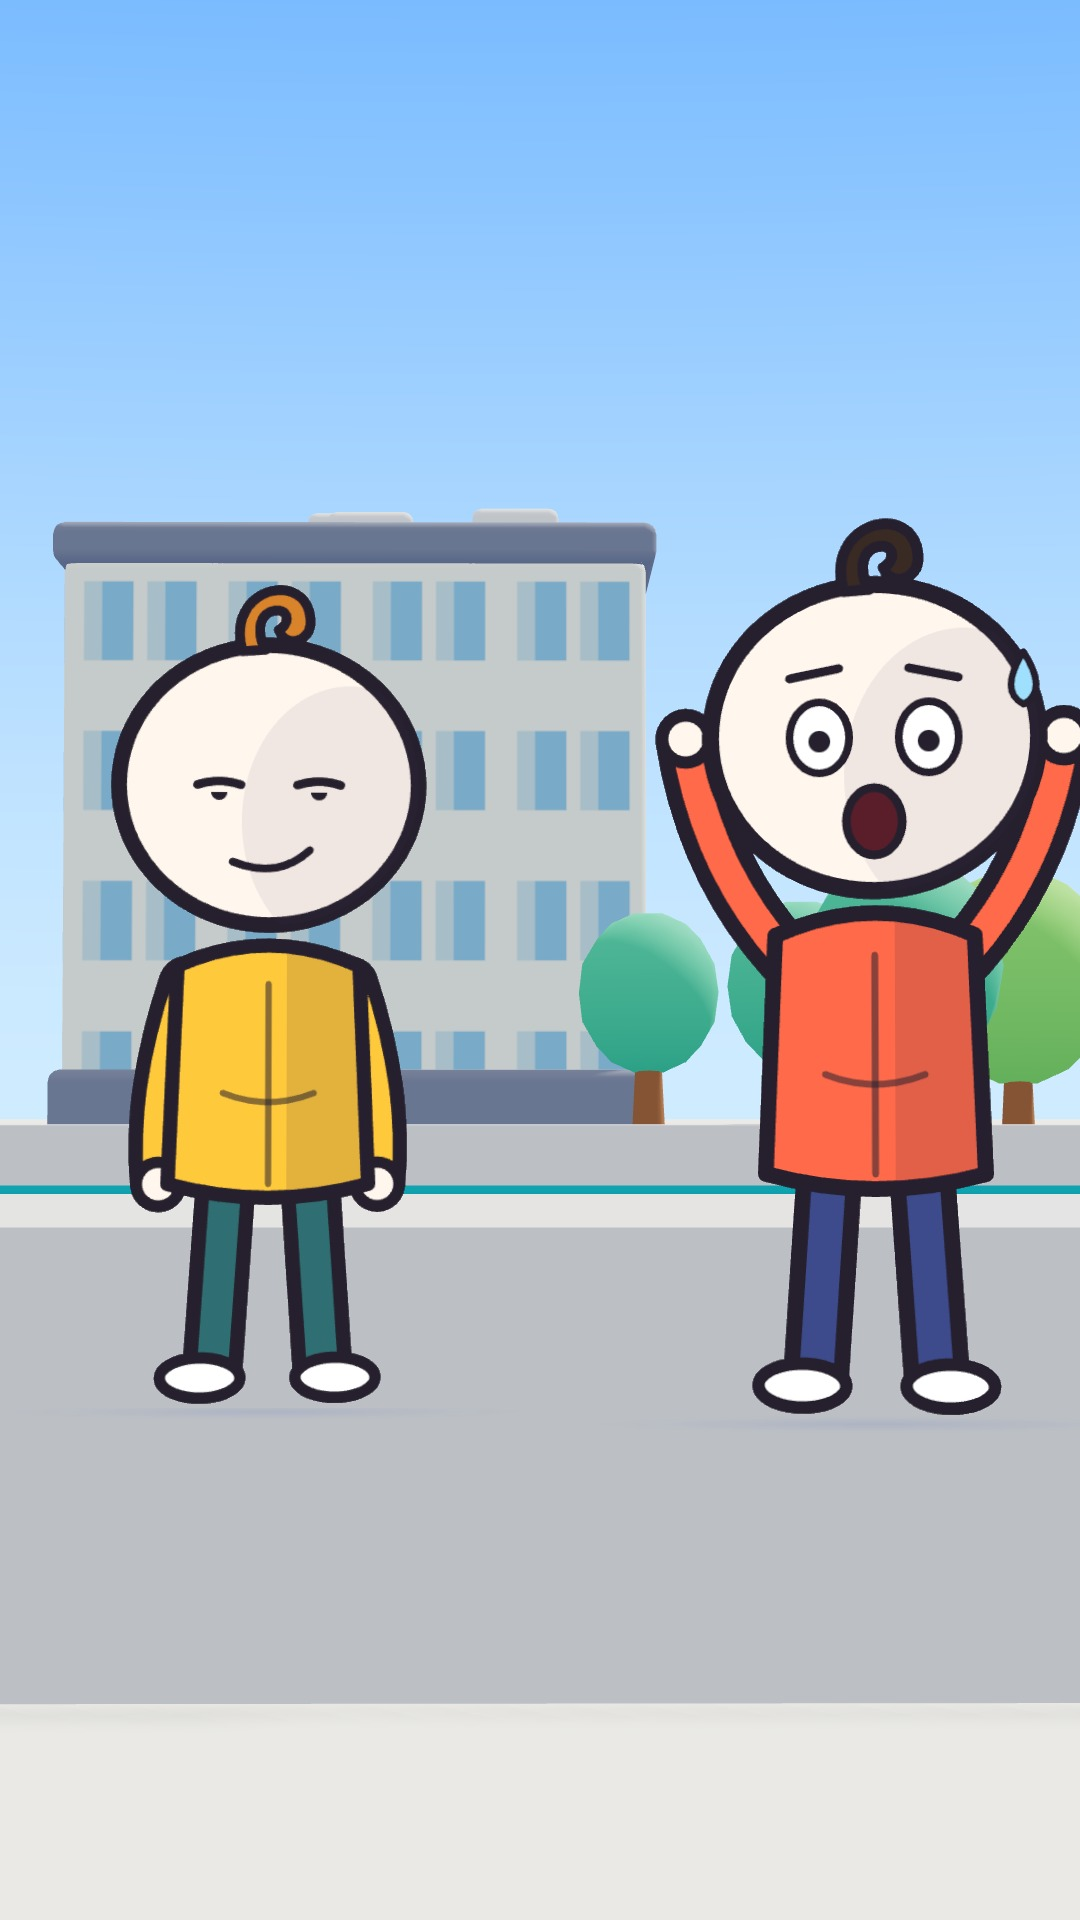
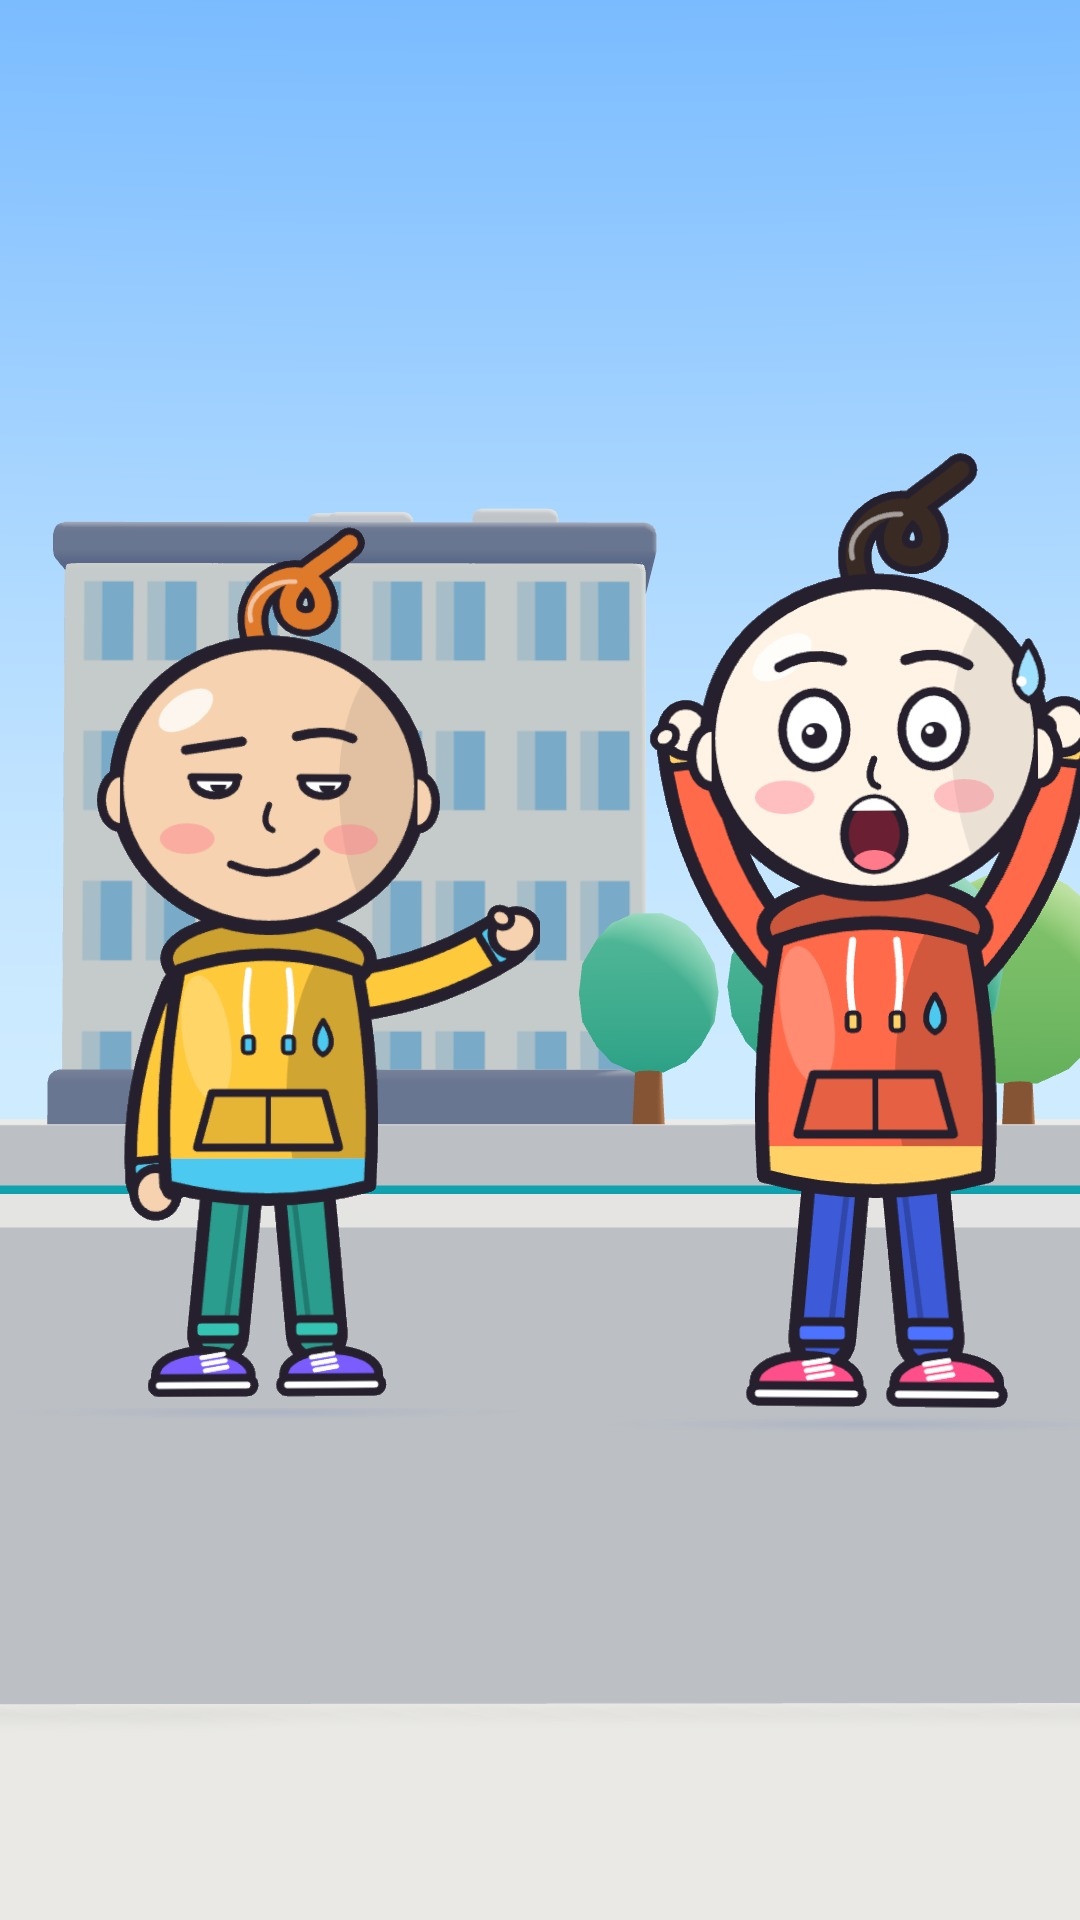
Bright style: more colourful, detailed cast with a longer signature curl
Claude-Session: https://claude.ai/code/session_01CtHgfPNB43nVshGwQCD94n

Changed region(s): [[0.6111, 0.2188, 1.0, 0.75], [0.0917, 0.25, 0.5194, 0.75]]

diff --git a/videos/style-bright/web/main.js b/videos/style-bright/web/main.js
@@ -114,45 +114,86 @@ for (let i = 0; i < 6; i++) car(40 + (i % 2 ? 2.2 : -2.2), 10 + i * 8, i % 2 ? 0
 
 // ---------- the cast: flat 2D cards, thick outlines, round heads, bright & unlit ----------
 const INK = '#26202e';
-function person({ shirt = '#ff6b4a', pants = '#3d4b8c', skin = '#fff6ee', hair = '#3a2a24', mood = 'shock', arms = 'up', prop = null } = {}) {
+function person({ shirt = '#ff6b4a', shirt2 = '#ffd166', pants = '#3d5bd9', shoe = '#ff4f8b', skin = '#fff3e6', hair = '#3a2a24', mood = 'shock', arms = 'up', prop = null } = {}) {
   const c = document.createElement('canvas'); c.width = 600; c.height = 1000; const g = c.getContext('2d');
-  g.lineJoin = 'round'; g.lineCap = 'round'; g.strokeStyle = INK;
-  const ol = 16;
-  // legs
-  g.lineWidth = 34 + ol * 2; g.beginPath(); g.moveTo(255, 720); g.lineTo(240, 940); g.moveTo(345, 720); g.lineTo(360, 940); g.stroke();
-  g.strokeStyle = pants; g.lineWidth = 34; g.stroke();
-  // shoes
-  for (const [x, d] of [[240, -1], [360, 1]]) { g.fillStyle = '#ffffff'; g.beginPath(); g.ellipse(x + d * 14, 952, 44, 22, 0, 0, 7); g.fill(); g.lineWidth = ol * 0.8; g.strokeStyle = INK; g.stroke(); }
-  // arms
-  const armPts = arms === 'up' ? [[[210, 520], [130, 430], [110, 300]], [[390, 520], [470, 430], [490, 300]]] : [[[210, 520], [170, 640], [180, 740]], [[390, 520], [430, 640], [420, 740]]];
-  for (const pts of armPts) {
-    g.beginPath(); g.moveTo(...pts[0]); g.quadraticCurveTo(...pts[1], ...pts[2]); g.strokeStyle = INK; g.lineWidth = 30 + ol * 2; g.stroke(); g.strokeStyle = shirt; g.lineWidth = 30; g.stroke();
-    g.fillStyle = skin; g.beginPath(); g.arc(pts[2][0], pts[2][1], 24, 0, 7); g.fill(); g.lineWidth = ol * 0.8; g.strokeStyle = INK; g.stroke();
+  g.lineJoin = 'round'; g.lineCap = 'round';
+  const ol = 14;
+  const shade = (hex, k) => { const n = parseInt(hex.slice(1), 16); const f = (v) => Math.max(0, Math.min(255, Math.round(v * k))); return `rgb(${f(n >> 16)},${f((n >> 8) & 255)},${f(n & 255)})`; };
+  const tube = (pts, w, col) => { g.beginPath(); g.moveTo(...pts[0]); if (pts.length === 3) g.quadraticCurveTo(...pts[1], ...pts[2]); else g.lineTo(...pts[1]);
+    g.strokeStyle = INK; g.lineWidth = w + ol * 2; g.stroke(); g.strokeStyle = col; g.lineWidth = w; g.stroke(); };
+  const fillStroke = (col, w = ol) => { g.fillStyle = col; g.fill(); g.lineWidth = w; g.strokeStyle = INK; g.stroke(); };
+  // ---- legs: trousers with rolled cuffs ----
+  for (const [x0, x1] of [[262, 246], [338, 354]]) {
+    tube([[x0, 730], [x1, 905]], 40, pants);
+    g.strokeStyle = shade(pants, 0.78); g.lineWidth = 6; g.beginPath(); g.moveTo(x0 + (x0 < 300 ? 9 : -9), 760); g.lineTo(x1 + (x1 < 300 ? 9 : -9), 890); g.stroke();
+    g.beginPath(); g.roundRect(x1 - 27, 888, 54, 22, 8); fillStroke(shade(pants, 1.25), 9);
   }
-  // torso: rounded hoodie
-  g.fillStyle = shirt; g.beginPath(); g.moveTo(200, 500); g.quadraticCurveTo(300, 455, 400, 500); g.lineTo(410, 740); g.quadraticCurveTo(300, 770, 190, 740); g.closePath(); g.fill(); g.lineWidth = ol; g.strokeStyle = INK; g.stroke();
-  g.save(); g.clip(); g.fillStyle = 'rgba(40,20,60,.13)'; g.fillRect(320, 450, 120, 330); g.restore();
-  g.strokeStyle = 'rgba(38,32,46,.55)'; g.lineWidth = 7; g.beginPath(); g.moveTo(300, 520); g.lineTo(300, 740); g.stroke();
-  g.beginPath(); g.moveTo(250, 640); g.quadraticCurveTo(300, 660, 350, 640); g.stroke(); // pocket
-  // head: big round, slightly wider than tall
-  g.fillStyle = skin; g.beginPath(); g.ellipse(300, 300, 165, 155, 0, 0, 7); g.fill(); g.lineWidth = ol * 1.1; g.strokeStyle = INK; g.stroke();
-  g.save(); g.beginPath(); g.ellipse(300, 300, 165, 155, 0, 0, 7); g.clip(); g.fillStyle = 'rgba(60,40,90,.08)'; g.beginPath(); g.ellipse(390, 340, 120, 150, 0, 0, 7); g.fill(); g.restore();
-  // signature: one big hair curl on top (our mascot mark)
-  g.fillStyle = hair; g.beginPath(); g.moveTo(270, 152); g.bezierCurveTo(250, 80, 340, 60, 345, 115); g.bezierCurveTo(348, 140, 318, 150, 310, 128); g.bezierCurveTo(325, 120, 320, 100, 300, 108); g.bezierCurveTo(285, 115, 288, 140, 296, 150); g.closePath(); g.fill(); g.lineWidth = ol * 0.7; g.strokeStyle = INK; g.stroke();
-  // face
-  g.fillStyle = INK; g.strokeStyle = INK;
+  // ---- sneakers: two-tone with white sole + laces ----
+  for (const [x, d] of [[246, -1], [354, 1]]) {
+    g.beginPath(); g.ellipse(x + d * 16, 948, 52, 26, 0, Math.PI, 0); g.lineTo(x + d * 16 + 52, 958); g.lineTo(x + d * 16 - 52, 958); g.closePath(); fillStroke(shoe, 10);
+    g.beginPath(); g.roundRect(x + d * 16 - 56, 952, 112, 16, 8); fillStroke('#ffffff', 9);
+    g.strokeStyle = '#ffffff'; g.lineWidth = 5; for (let i = 0; i < 3; i++) { g.beginPath(); g.moveTo(x + d * 6 - 12 + i * 2, 930 + i * 7); g.lineTo(x + d * 6 + 12 + i * 2, 926 + i * 7); g.stroke(); }
+  }
+  // ---- arms (sleeves + cuffs + mitten hands with a thumb) ----
+  const armPts = arms === 'up' ? [[[212, 530], [128, 440], [112, 305]], [[388, 530], [472, 440], [488, 305]]]
+    : arms === 'point' ? [[[212, 530], [168, 640], [176, 735]], [[388, 530], [480, 520], [560, 470]]]
+    : [[[212, 530], [168, 640], [176, 735]], [[388, 530], [432, 640], [424, 735]]];
+  for (const pts of armPts) {
+    tube(pts, 36, shirt);
+    const [hx, hy] = pts[2], [px, py] = pts[1]; const ang = Math.atan2(hy - py, hx - px);
+    g.save(); g.translate(hx, hy); g.rotate(ang);
+    g.beginPath(); g.roundRect(-22, -24, 20, 48, 8); fillStroke(shirt2, 9);
+    g.beginPath(); g.ellipse(14, 0, 26, 24, 0, 0, 7); fillStroke(skin, 10);
+    g.beginPath(); g.ellipse(10, -22, 10, 12, -0.5, 0, 7); fillStroke(skin, 8);
+    g.restore();
+  }
+  // ---- hoodie torso: hood behind neck, two-tone shading, pocket, drawstrings ----
+  g.beginPath(); g.ellipse(300, 492, 112, 46, 0, 0, 7); fillStroke(shade(shirt, 0.8));
+  g.beginPath(); g.moveTo(202, 505); g.quadraticCurveTo(300, 470, 398, 505); g.quadraticCurveTo(420, 620, 412, 742); g.quadraticCurveTo(300, 772, 188, 742); g.quadraticCurveTo(180, 620, 202, 505); g.closePath();
+  g.fillStyle = shirt; g.fill();
+  g.save(); g.clip(); g.fillStyle = shade(shirt, 0.82); g.beginPath(); g.ellipse(410, 640, 90, 190, 0, 0, 7); g.fill();
+  g.fillStyle = 'rgba(255,255,255,.22)'; g.beginPath(); g.ellipse(232, 580, 26, 70, -0.15, 0, 7); g.fill();
+  g.fillStyle = shirt2; g.fillRect(170, 712, 260, 40); g.restore();
+  g.beginPath(); g.moveTo(202, 505); g.quadraticCurveTo(300, 470, 398, 505); g.quadraticCurveTo(420, 620, 412, 742); g.quadraticCurveTo(300, 772, 188, 742); g.quadraticCurveTo(180, 620, 202, 505); g.closePath(); g.lineWidth = ol; g.strokeStyle = INK; g.stroke();
+  g.beginPath(); g.moveTo(238, 640); g.lineTo(362, 640); g.lineTo(378, 700); g.lineTo(222, 700); g.closePath(); fillStroke(shade(shirt, 0.9), 9);
+  g.strokeStyle = INK; g.lineWidth = 6; g.beginPath(); g.moveTo(300, 640); g.lineTo(300, 700); g.stroke();
+  for (const x of [278, 322]) { g.strokeStyle = '#ffffff'; g.lineWidth = 7; g.beginPath(); g.moveTo(x, 505); g.quadraticCurveTo(x + (x < 300 ? -6 : 6), 545, x, 580); g.stroke(); g.beginPath(); g.roundRect(x - 6, 578, 12, 18, 4); fillStroke(shirt2, 5); }
+  // little chest logo: a water drop (channel motif)
+  g.beginPath(); g.moveTo(360, 560); g.quadraticCurveTo(342, 588, 360, 598); g.quadraticCurveTo(378, 588, 360, 560); fillStroke('#4cc9f0', 6);
+  // ---- head ----
+  const HX = 300, HY = 300, RX = 168, RY = 158;
+  // signature: the tall spring curl (long, twice coiled, with a shine)
+  g.strokeStyle = INK; g.lineWidth = 34; g.beginPath(); g.moveTo(292, 152);
+  g.bezierCurveTo(252, 84, 336, 40, 356, 86); g.bezierCurveTo(372, 126, 316, 128, 320, 96); g.bezierCurveTo(324, 70, 364, 52, 388, 30); g.stroke();
+  g.strokeStyle = hair; g.lineWidth = 18; g.stroke();
+  g.strokeStyle = 'rgba(255,255,255,.55)'; g.lineWidth = 5; g.beginPath(); g.moveTo(279, 118); g.bezierCurveTo(272, 92, 300, 72, 328, 74); g.stroke();
+  g.beginPath(); g.ellipse(HX, HY, RX, RY, 0, 0, 7); g.fillStyle = skin; g.fill();
+  g.save(); g.clip(); g.fillStyle = shade(skin, 0.92); g.beginPath(); g.ellipse(HX + 175, HY + 40, 95, 190, -0.15, 0, 7); g.fill();
+  g.fillStyle = 'rgba(255,255,255,.8)'; g.beginPath(); g.ellipse(HX - 92, HY - 82, 34, 18, -0.6, 0, 7); g.fill(); g.restore();
+  g.beginPath(); g.ellipse(HX, HY, RX, RY, 0, 0, 7); g.lineWidth = ol * 1.15; g.strokeStyle = INK; g.stroke();
+  // ears
+  for (const d of [-1, 1]) { g.beginPath(); g.ellipse(HX + d * (RX - 4), HY + 18, 20, 30, 0, d < 0 ? Math.PI * 0.5 : -Math.PI * 0.5, d < 0 ? Math.PI * 1.5 : Math.PI * 0.5); fillStroke(skin, 10); }
+  // cheeks
+  g.fillStyle = 'rgba(255,120,140,.42)'; for (const x of [210, 390]) { g.beginPath(); g.ellipse(x, 360, 30, 17, 0, 0, 7); g.fill(); }
+  // eyes with a highlight, brows, small nose
+  g.strokeStyle = INK; g.fillStyle = INK;
   const eye = (x, y) => {
-    if (mood === 'shock') { g.fillStyle = '#fff'; g.beginPath(); g.ellipse(x, y, 30, 36, 0, 0, 7); g.fill(); g.lineWidth = 8; g.stroke(); g.fillStyle = INK; g.beginPath(); g.arc(x, y + 4, 11, 0, 7); g.fill(); }
-    else if (mood === 'smug') { g.lineWidth = 10; g.beginPath(); g.moveTo(x - 24, y); g.quadraticCurveTo(x, y - 8, x + 24, y); g.stroke(); g.beginPath(); g.arc(x, y + 8, 9, 0, Math.PI); g.fill(); }
-    else { g.beginPath(); g.ellipse(x, y, 12, 17, 0, 0, 7); g.fill(); }
+    if (mood === 'shock') { g.fillStyle = '#fff'; g.beginPath(); g.ellipse(x, y, 32, 38, 0, 0, 7); g.fill(); g.lineWidth = 9; g.stroke(); g.fillStyle = INK; g.beginPath(); g.arc(x, y + 6, 13, 0, 7); g.fill(); g.fillStyle = '#fff'; g.beginPath(); g.arc(x - 4, y + 1, 4, 0, 7); g.fill(); }
+    else if (mood === 'smug') { g.fillStyle = '#fff'; g.beginPath(); g.ellipse(x, y + 4, 24, 16, 0, 0, Math.PI); g.fill(); g.lineWidth = 9; g.beginPath(); g.moveTo(x - 26, y); g.lineTo(x + 26, y); g.stroke(); g.beginPath(); g.ellipse(x, y + 4, 24, 16, 0, 0, Math.PI); g.stroke(); g.fillStyle = INK; g.beginPath(); g.arc(x + 4, y + 8, 9, 0, Math.PI); g.fill(); }
+    else { g.beginPath(); g.ellipse(x, y, 14, 19, 0, 0, 7); g.fill(); g.fillStyle = '#fff'; g.beginPath(); g.arc(x - 4, y - 6, 5, 0, 7); g.fill(); g.fillStyle = INK; }
   };
-  eye(245, 300); eye(355, 300);
+  eye(240, 292); eye(360, 292);
+  g.lineWidth = 11;
+  if (mood === 'shock') { g.beginPath(); g.moveTo(205, 228); g.quadraticCurveTo(235, 210, 268, 222); g.moveTo(332, 222); g.quadraticCurveTo(365, 210, 395, 228); g.stroke(); }
+  else if (mood === 'smug') { g.beginPath(); g.moveTo(208, 262); g.lineTo(270, 252); g.moveTo(330, 246); g.quadraticCurveTo(365, 236, 392, 248); g.stroke(); }
+  else { g.beginPath(); g.moveTo(212, 248); g.quadraticCurveTo(240, 236, 268, 246); g.moveTo(332, 246); g.quadraticCurveTo(360, 236, 388, 248); g.stroke(); }
+  g.lineWidth = 7; g.beginPath(); g.moveTo(300, 322); g.quadraticCurveTo(290, 345, 304, 350); g.stroke();
   g.lineWidth = 9;
-  if (mood === 'shock') { g.beginPath(); g.moveTo(215, 240); g.lineTo(265, 230); g.moveTo(335, 230); g.lineTo(385, 240); g.stroke();
-    g.fillStyle = '#5a1e2a'; g.beginPath(); g.ellipse(300, 385, 28, 34, 0, 0, 7); g.fill(); g.stroke(); }
-  else if (mood === 'smug') { g.beginPath(); g.moveTo(260, 385); g.quadraticCurveTo(310, 405, 345, 372); g.stroke(); }
-  else { g.beginPath(); g.moveTo(262, 375); g.quadraticCurveTo(300, 410, 338, 375); g.stroke(); }
-  if (prop === 'sweat') { g.fillStyle = '#9fe0ff'; g.lineWidth = 7; g.beginPath(); g.moveTo(450, 215); g.quadraticCurveTo(425, 255, 450, 268); g.quadraticCurveTo(475, 255, 450, 215); g.fill(); g.stroke(); }
+  if (mood === 'shock') { g.beginPath(); g.ellipse(300, 398, 30, 36, 0, 0, 7); g.fillStyle = '#6a1f33'; g.fill(); g.stroke();
+    g.save(); g.beginPath(); g.ellipse(300, 398, 30, 36, 0, 0, 7); g.clip(); g.fillStyle = '#ff7a8a'; g.beginPath(); g.ellipse(300, 428, 22, 14, 0, 0, 7); g.fill(); g.fillStyle = '#fff'; g.fillRect(278, 362, 44, 12); g.restore(); }
+  else if (mood === 'smug') { g.beginPath(); g.moveTo(258, 388); g.quadraticCurveTo(312, 412, 352, 374); g.stroke(); }
+  else { g.beginPath(); g.moveTo(260, 380); g.quadraticCurveTo(300, 420, 340, 380); g.stroke(); }
+  if (prop === 'sweat') { g.fillStyle = '#9fe0ff'; g.lineWidth = 7; g.beginPath(); g.moveTo(455, 205); g.quadraticCurveTo(428, 250, 455, 264); g.quadraticCurveTo(482, 250, 455, 205); g.fill(); g.stroke(); g.fillStyle = '#fff'; g.beginPath(); g.arc(448, 245, 5, 0, 7); g.fill(); }
   const t = new THREE.CanvasTexture(c); t.colorSpace = THREE.SRGBColorSpace; t.anisotropy = 8;
   return t;
 }
@@ -164,7 +205,7 @@ function card(tex, h, x, z) {
   return m;
 }
 const hero = card(person({ mood: 'shock', arms: 'up', prop: 'sweat' }), 2.0, -0.62, 3.6);
-const friend = card(person({ shirt: '#ffc93c', pants: '#2f6f73', hair: '#d9832b', mood: 'smug', arms: 'down' }), 1.9, 0.62, 3.9);
+const friend = card(person({ shirt: '#ffc93c', shirt2: '#4cc9f0', pants: '#2a9d8f', shoe: '#7b5cff', hair: '#e07a2b', skin: '#f6d2b0', mood: 'smug', arms: 'point' }), 1.9, 0.62, 3.9);
 
 const cam = new THREE.PerspectiveCamera(30, W / H, 0.5, 3000);
 window.shot = (name) => {
@@ -175,3 +216,16 @@ window.shot = (name) => {
   renderer.render(scene, cam);
 };
 window.READY = true;
+// character lineup for review
+window.lineup = () => {
+  const L = [
+    { mood: 'shock', arms: 'up', prop: 'sweat' },
+    { shirt: '#ffc93c', shirt2: '#4cc9f0', pants: '#2a9d8f', shoe: '#7b5cff', hair: '#e07a2b', skin: '#f6d2b0', mood: 'smug', arms: 'point' },
+    { shirt: '#7b5cff', shirt2: '#ffd166', pants: '#ff8fab', shoe: '#2ec4b6', hair: '#1b1b2f', skin: '#c98a5a', mood: 'happy', arms: 'down' },
+    { shirt: '#2ec4b6', shirt2: '#ff6b4a', pants: '#3a3a5a', shoe: '#ffd166', hair: '#f2c14e', skin: '#ffe0c2', mood: 'shock', arms: 'down' },
+  ];
+  const c = document.createElement('canvas'); c.width = 1600; c.height = 1000; const g = c.getContext('2d');
+  const gr = g.createLinearGradient(0, 0, 0, 1000); gr.addColorStop(0, '#bfe6ff'); gr.addColorStop(1, '#f3fbff'); g.fillStyle = gr; g.fillRect(0, 0, 1600, 1000);
+  L.forEach((o, i) => g.drawImage(person(o).image, i * 400 - 40, 0, 480, 800 * 1.0));
+  return c.toDataURL('image/jpeg', 0.92);
+};
